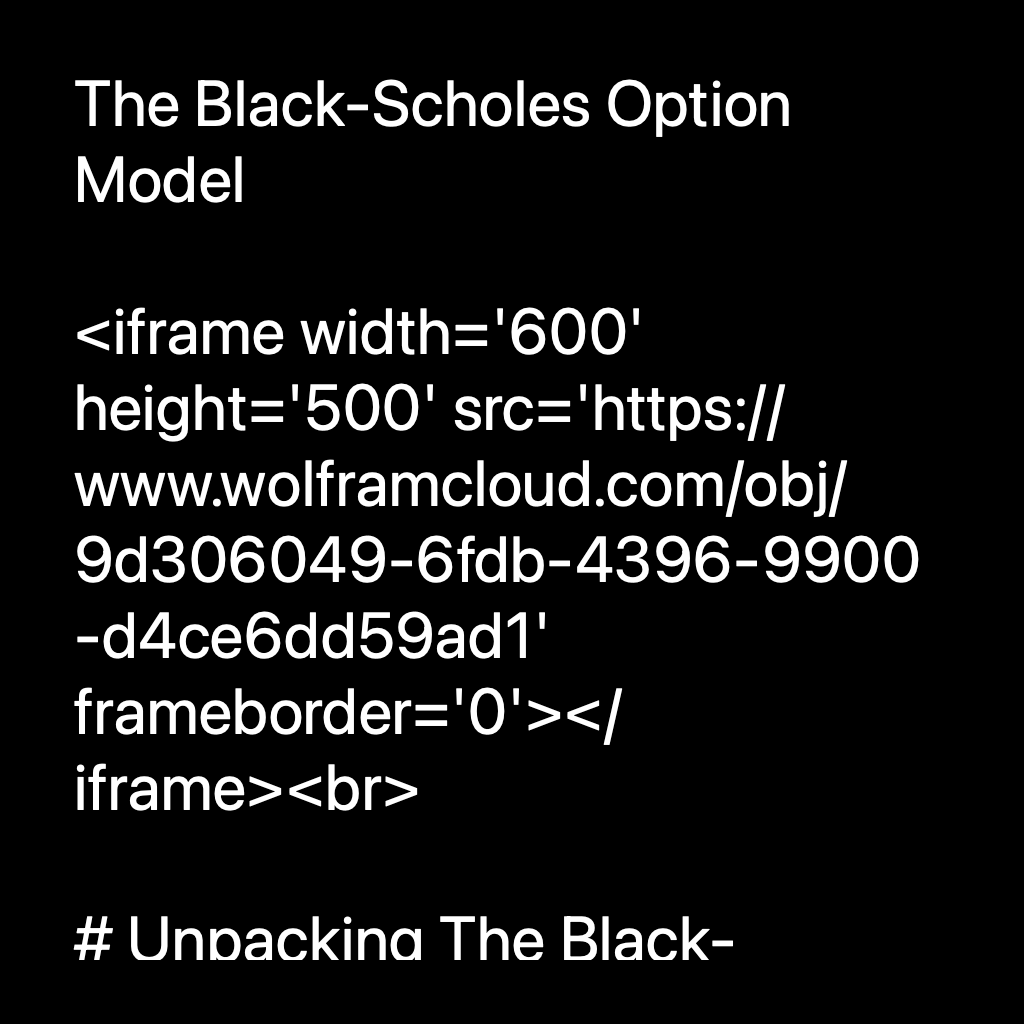
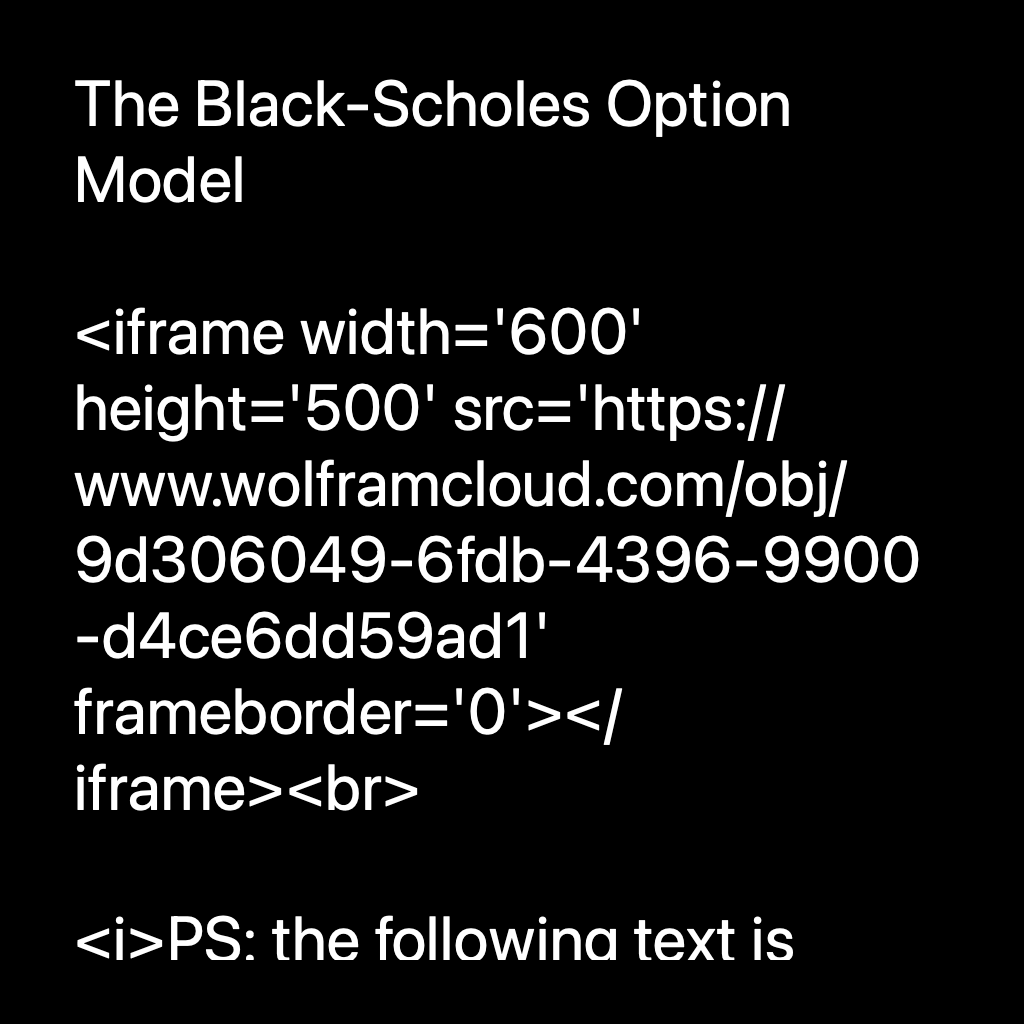
automated upload

Changed region(s): [[0.0625, 0.875, 0.7812, 0.9375]]

diff --git a/1C5E86C9-8677-4CC0-BAE9-A2607107F91E/index.html b/1C5E86C9-8677-4CC0-BAE9-A2607107F91E/index.html
@@ -72,7 +72,7 @@
 <meta property="og:type" content="article" />
 <meta property="og:title" content="The Black-Scholes Option Model" />
 <meta property="og:site_name" content="&#xA2A;&#xA4D;&#xA30;&#xA2D;&#xA1A;&#xA3F;&#xA70;&#xA24;&#xA28;&#xA30;&#xA70;&#xA27;&#xA3E;&#xA35;&#xA3E;" />
-<meta property="og:description" content="Unpacking The Black-Scholes Model: An Intellectual Odyssey in the Realm of Financial Engineering The Black-Scholes model, a cornerstone of modern financial theory, plays a pivotal role in the realm of options pricing. An understanding of this model not only casts light on the com..." />
+<meta property="og:description" content="PS: the following text is generated via ChatGPT: Unpacking The Black-Scholes Model: An Intellectual Odyssey in the Realm of Financial Engineering The Black-Scholes model, a cornerstone of modern financial theory, plays a pivotal role in the realm of options pricing. An understand..." />
 <meta property="article:published_time" content="2023-06-17T23:48:15-05:00" />
 
   <meta property="og:image" content="https://retroflex.xyz/options/_cover.png" />
@@ -81,7 +81,7 @@
 <meta name="twitter:card" content="summary" />
 <meta name="twitter:site" content="&#xA2A;&#xA4D;&#xA30;&#xA2D;&#xA1A;&#xA3F;&#xA70;&#xA24;&#xA28;&#xA30;&#xA70;&#xA27;&#xA3E;&#xA35;&#xA3E;" />
 <meta name="twitter:title" content="The Black-Scholes Option Model" />
-<meta name="twitter:description" content="Unpacking The Black-Scholes Model: An Intellectual Odyssey in the Realm of Financial Engineering The Black-Scholes model, a cornerstone of modern financial theory, plays a pivotal role in the realm of options pricing. An understanding of this model not only casts light on the com..." />
+<meta name="twitter:description" content="PS: the following text is generated via ChatGPT: Unpacking The Black-Scholes Model: An Intellectual Odyssey in the Realm of Financial Engineering The Black-Scholes model, a cornerstone of modern financial theory, plays a pivotal role in the realm of options pricing. An understand..." />
 
   <meta name="twitter:image" content="https://retroflex.xyz/options/_cover.png" />
 
@@ -164,6 +164,7 @@
   
   
   <iframe width='600' height='500' src='https://www.wolframcloud.com/obj/9d306049-6fdb-4396-9900-d4ce6dd59ad1' frameborder='0'></iframe><br>
+<p><i>PS: the following text is generated via ChatGPT:</i></p>
 <h1>Unpacking The Black-Scholes Model: An Intellectual Odyssey in the Realm of Financial Engineering</h1>
 <p>The Black-Scholes model, a cornerstone of modern financial theory, plays a pivotal role in the realm of options pricing. An understanding of this model not only casts light on the complex dynamics of financial markets, but also evokes an intricate web of intellectual endeavor that extends beyond the domain of finance. It represents the culmination of centuries of mathematical and scientific progress, embodying a rich tapestry of theoretical constructs from physics, mathematics, and economics. Nevertheless, despite its universal acclaim and widespread application, the model is not without its detractors, and its perceived blind spots have engendered a plethora of criticisms.</p>
 <h2>The Genesis of The Black-Scholes Model</h2>

diff --git a/options/index.html b/options/index.html
@@ -72,7 +72,7 @@
 <meta property="og:type" content="article" />
 <meta property="og:title" content="The Black-Scholes Option Model" />
 <meta property="og:site_name" content="&#xA2A;&#xA4D;&#xA30;&#xA2D;&#xA1A;&#xA3F;&#xA70;&#xA24;&#xA28;&#xA30;&#xA70;&#xA27;&#xA3E;&#xA35;&#xA3E;" />
-<meta property="og:description" content="Unpacking The Black-Scholes Model: An Intellectual Odyssey in the Realm of Financial Engineering The Black-Scholes model, a cornerstone of modern financial theory, plays a pivotal role in the realm of options pricing. An understanding of this model not only casts light on the com..." />
+<meta property="og:description" content="PS: the following text is generated via ChatGPT: Unpacking The Black-Scholes Model: An Intellectual Odyssey in the Realm of Financial Engineering The Black-Scholes model, a cornerstone of modern financial theory, plays a pivotal role in the realm of options pricing. An understand..." />
 <meta property="article:published_time" content="2023-06-17T23:48:15-05:00" />
 
   <meta property="og:image" content="https://retroflex.xyz/options/_cover.png" />
@@ -81,7 +81,7 @@
 <meta name="twitter:card" content="summary" />
 <meta name="twitter:site" content="&#xA2A;&#xA4D;&#xA30;&#xA2D;&#xA1A;&#xA3F;&#xA70;&#xA24;&#xA28;&#xA30;&#xA70;&#xA27;&#xA3E;&#xA35;&#xA3E;" />
 <meta name="twitter:title" content="The Black-Scholes Option Model" />
-<meta name="twitter:description" content="Unpacking The Black-Scholes Model: An Intellectual Odyssey in the Realm of Financial Engineering The Black-Scholes model, a cornerstone of modern financial theory, plays a pivotal role in the realm of options pricing. An understanding of this model not only casts light on the com..." />
+<meta name="twitter:description" content="PS: the following text is generated via ChatGPT: Unpacking The Black-Scholes Model: An Intellectual Odyssey in the Realm of Financial Engineering The Black-Scholes model, a cornerstone of modern financial theory, plays a pivotal role in the realm of options pricing. An understand..." />
 
   <meta name="twitter:image" content="https://retroflex.xyz/options/_cover.png" />
 
@@ -164,6 +164,7 @@
   
   
   <iframe width='600' height='500' src='https://www.wolframcloud.com/obj/9d306049-6fdb-4396-9900-d4ce6dd59ad1' frameborder='0'></iframe><br>
+<p><i>PS: the following text is generated via ChatGPT:</i></p>
 <h1>Unpacking The Black-Scholes Model: An Intellectual Odyssey in the Realm of Financial Engineering</h1>
 <p>The Black-Scholes model, a cornerstone of modern financial theory, plays a pivotal role in the realm of options pricing. An understanding of this model not only casts light on the complex dynamics of financial markets, but also evokes an intricate web of intellectual endeavor that extends beyond the domain of finance. It represents the culmination of centuries of mathematical and scientific progress, embodying a rich tapestry of theoretical constructs from physics, mathematics, and economics. Nevertheless, despite its universal acclaim and widespread application, the model is not without its detractors, and its perceived blind spots have engendered a plethora of criticisms.</p>
 <h2>The Genesis of The Black-Scholes Model</h2>
